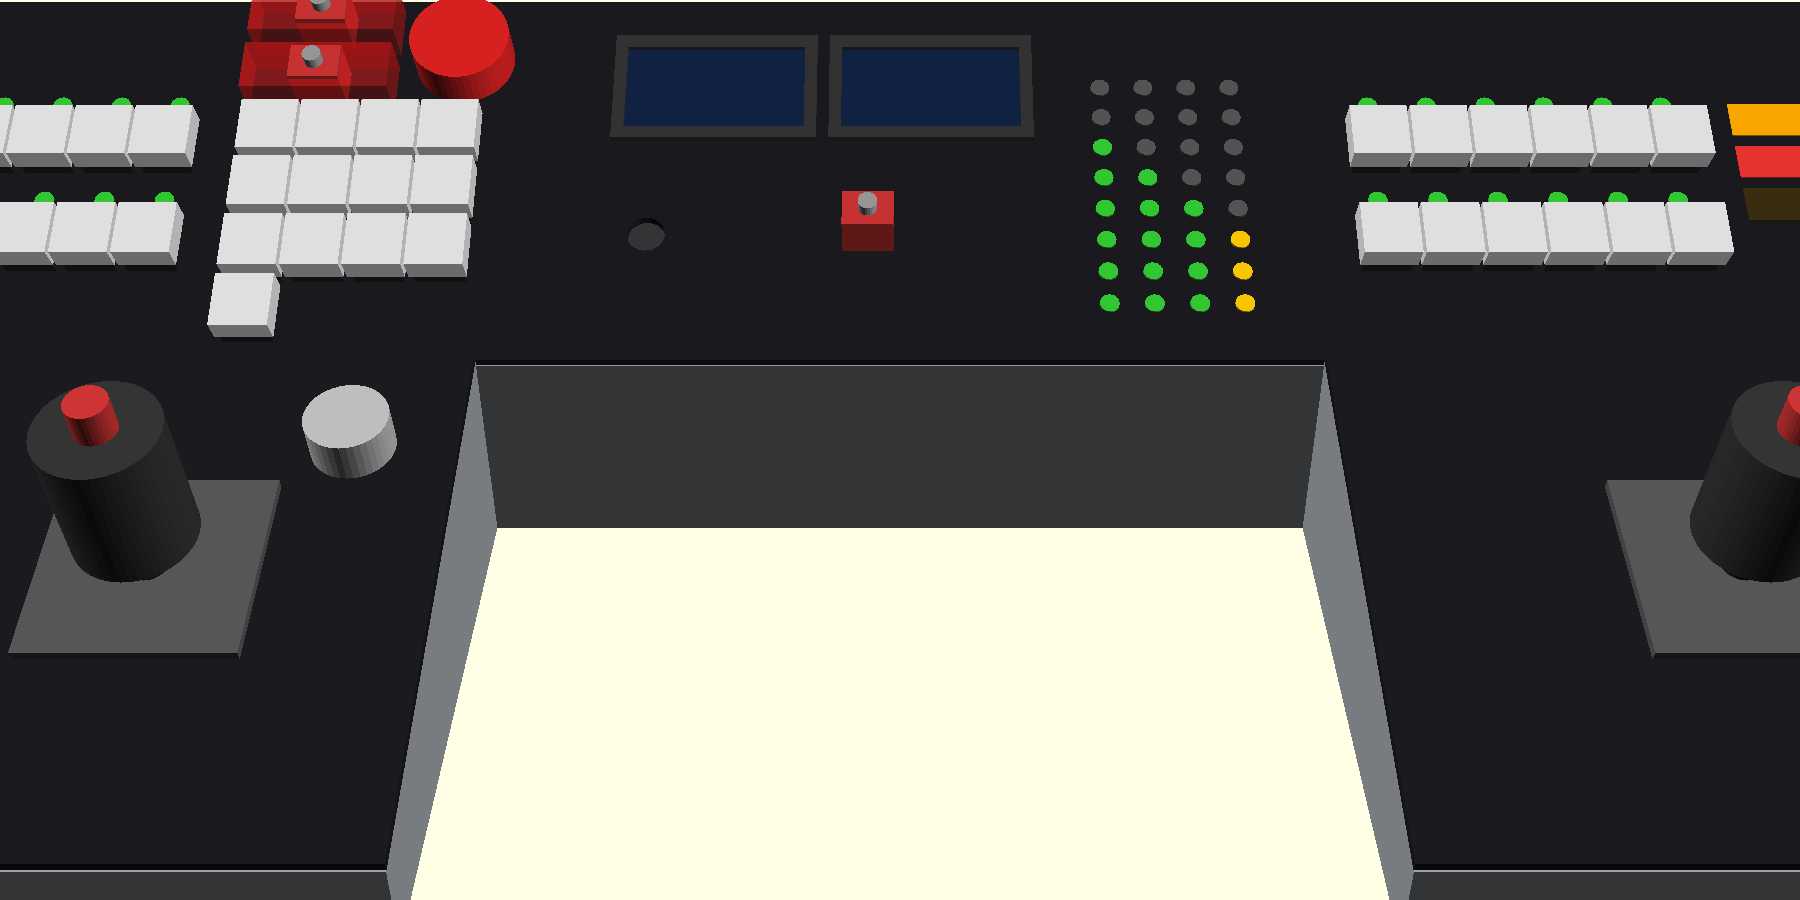
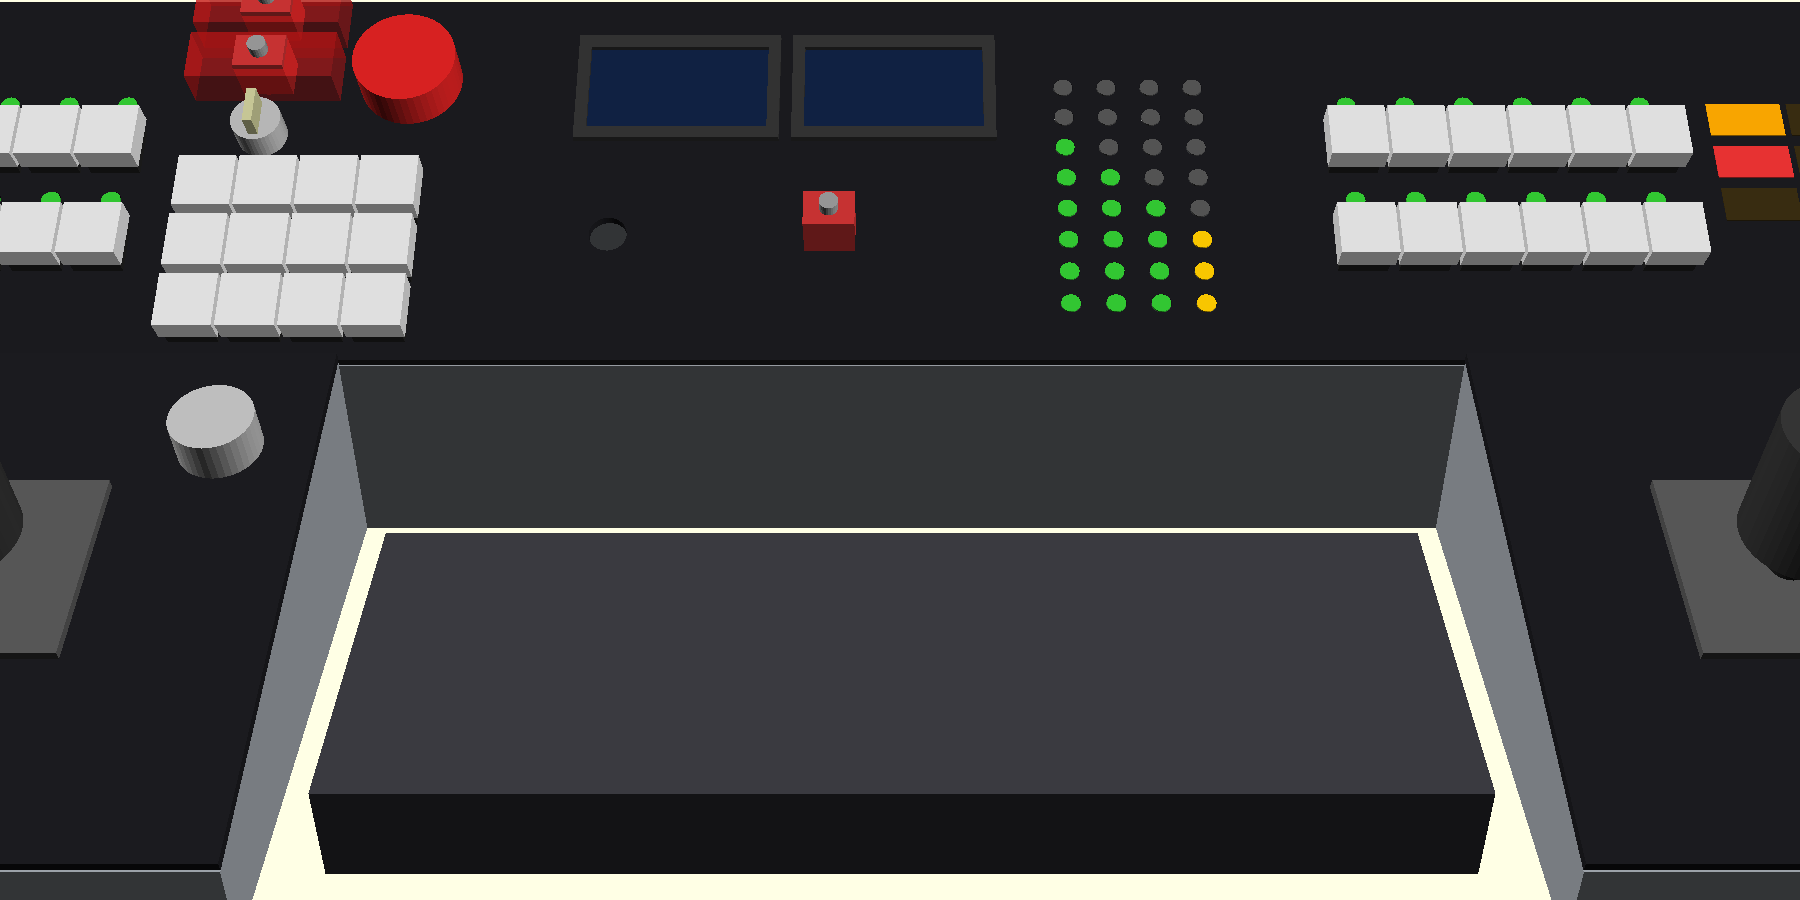
Resize the console around a 12.2 in 60% keyboard
- Strips 245 mm wide (735 mm in all), wings 195 mm, so the open middle is
  345 mm wide and 176 mm deep: about 17 mm each side of a 310 mm keyboard
- Wing contents re-spaced for 195 mm: left wing fader u=25, stick u=108,
  encoder u=168; right wing stick u=75, encoders u=150; ballast plates still fit
- Middle-strip jacks and provisional cutouts re-centred
- A 310 x 110 mm keyboard is shown in the gap in the renders
- Decisions record the keyboard as a design constraint, with what to revisit if it
  changes; filament now 1.77 kg modelled, about 2.0 kg with ribs
- All v1 renders regenerated

diff --git a/docs/decisions.md b/docs/decisions.md
@@ -19,6 +19,18 @@ This file records what has been settled and what is still open.
 - KSP1 mod dependency: **Alternate Resource Panel** (via CKAN) for liquid fuel,
   monoprop, electric charge and some other resource telemetry.
 
+## Keyboard (decided): designed for a 12.2 in 60%
+- **The console is sized around a 12.2 in (310 mm) 60% keyboard** standing in the open middle between the wings. Strips are
+  245 mm wide (735 mm in all, the most the 256 mm bed allows after clearance) and the wings 195 mm, so the gap is **345 mm** wide
+  and 176 mm deep: about 17 mm each side of the keyboard, with room for its depth (a 60% is roughly 100-125 mm) and your wrists.
+  The mockup shows a 310 x 110 mm keyboard in the gap.
+- **If the keyboard changes:** a board wider than about 330 mm will not fit; a full-size one (480 mm) does not, and would
+  need six pieces and about 940 mm. A narrower one just leaves more room.
+- **Why a keyboard at all:** the controller covers nearly all flight controls. The keyboard is for typing (names, saves, mod
+  windows), the VAB and SPH, EVA and the odd hotkey. The mouse is needed throughout.
+- **Wing layouts at 195 mm:** left wing fader at u=25, stick at u=108, time-warp encoder at u=168; right wing stick at u=75 and
+  encoders at u=150. The stick clearance ring (38 mm) stays clear, and the ballast plates still fit.
+
 ## Sourcing (decided)
 - **Digi-Key is the primary source,** through its API (`docs/tools/parts.py`): one order, live price, stock and
   parametric data (panel cutouts, ratings). It also sells SparkFun, Adafruit and PJRC items, so the Teensy, fader, driver,
@@ -147,8 +159,8 @@ This file records what has been settled and what is still open.
   from altitude and airspeed. **High G was dropped: Simpit has no G-force message.**
 - **Master power switch (middle strip):** in series with the 5 V rail. It cuts the pixels and the fader driver
   but leaves the Teensy and expander powered over USB.
-- **Layout effect:** the left strip is 240 mm wide (the console is 700 mm), the right strip's freed corner holds
-  the annunciator, and the middle strip gets the master switch.
+- **Layout effect:** the right strip's freed corner holds the annunciator and the middle strip gets the master switch. The
+  strips are now 245 mm wide (see the keyboard decision below).
 - **STAGE key (decided):** a key switch arms STAGE. The big STAGE button only fires while the key is on, which
   replaces the second guarded toggle. The key position is an expander input, so the firmware does the interlock.
 - **RESET: skipped (decided).** Recovery from a hang is replugging the USB cable.

diff --git a/docs/fabrication.md b/docs/fabrication.md
@@ -11,13 +11,13 @@ measured. PLA at 1.24 g/cm3, walls counted as 100% solid.
 
 | Piece | Shell | Faceplate | Total |
 |---|---|---|---|
-| Left wing | 216 g | 136 g | 352 g |
-| Right wing | 216 g | 139 g | 355 g |
-| Strip left | 277 g | 98 g | 375 g |
-| Strip middle | 277 g | 102 g | 379 g |
-| Strip right | 259 g | 91 g | 350 g |
-| **Modelled** | | | **1.81 kg** |
-| **With +15% for ribs, bosses, retainers** | | | **about 2.1 kg** |
+| Left wing | 195 g | 120 g | 315 g |
+| Right wing | 195 g | 122 g | 317 g |
+| Strip left | 280 g | 100 g | 380 g |
+| Strip middle | 274 g | 105 g | 379 g |
+| Strip right | 280 g | 103 g | 383 g |
+| **Modelled** | | | **1.77 kg** |
+| **With +15% for ribs, bosses, retainers** | | | **about 2.0 kg** |
 
 Budget 2 to 3 spools (1 kg each) once test prints and reprints are included. PETG is about 2% heavier.
 Print time is about 70 to 140 hours at 15 to 30 g/h. A 0.6 mm nozzle roughly halves it.
@@ -43,7 +43,7 @@ The printed pieces plus parts weigh only about 3 kg, which a hand on the throttl
 
 - Each shell prints floor down with the open sloped top facing up: the walls rise straight, so I expect no supports.
 - Faceplates print flat.
-- Largest envelopes: wings 220 x 176 x 67 mm, strips 220 to 240 x 119 x 128 mm (the left strip is now 240 mm wide, so the console is 700 mm across). All fit the 256 mm bed.
+- Largest envelopes: wings 195 x 176 x 67 mm, strips 245 x 119 x 128 mm. All fit the 256 mm bed, with 11 mm to spare on the strips. The console is 735 mm across (see the keyboard note in `decisions.md`).
 
 ## Not designed yet
 

diff --git a/README.md b/README.md
@@ -10,7 +10,8 @@ specs are seller claims still to be checked on the real parts.
 ## Layout
 
 A raised, steep back strip of three pieces, with two lower wings at the front ends and the middle front left
-open. Each piece is a printed shell with a removable 3 mm faceplate.
+open. Each piece is a printed shell with a removable 3 mm faceplate. The console is 735 mm wide and
+**designed around a 12.2 in (310 mm) 60% keyboard** that stands in the open middle (a 345 mm gap).
 
 | Piece | Tilt | Holds |
 |---|---|---|
